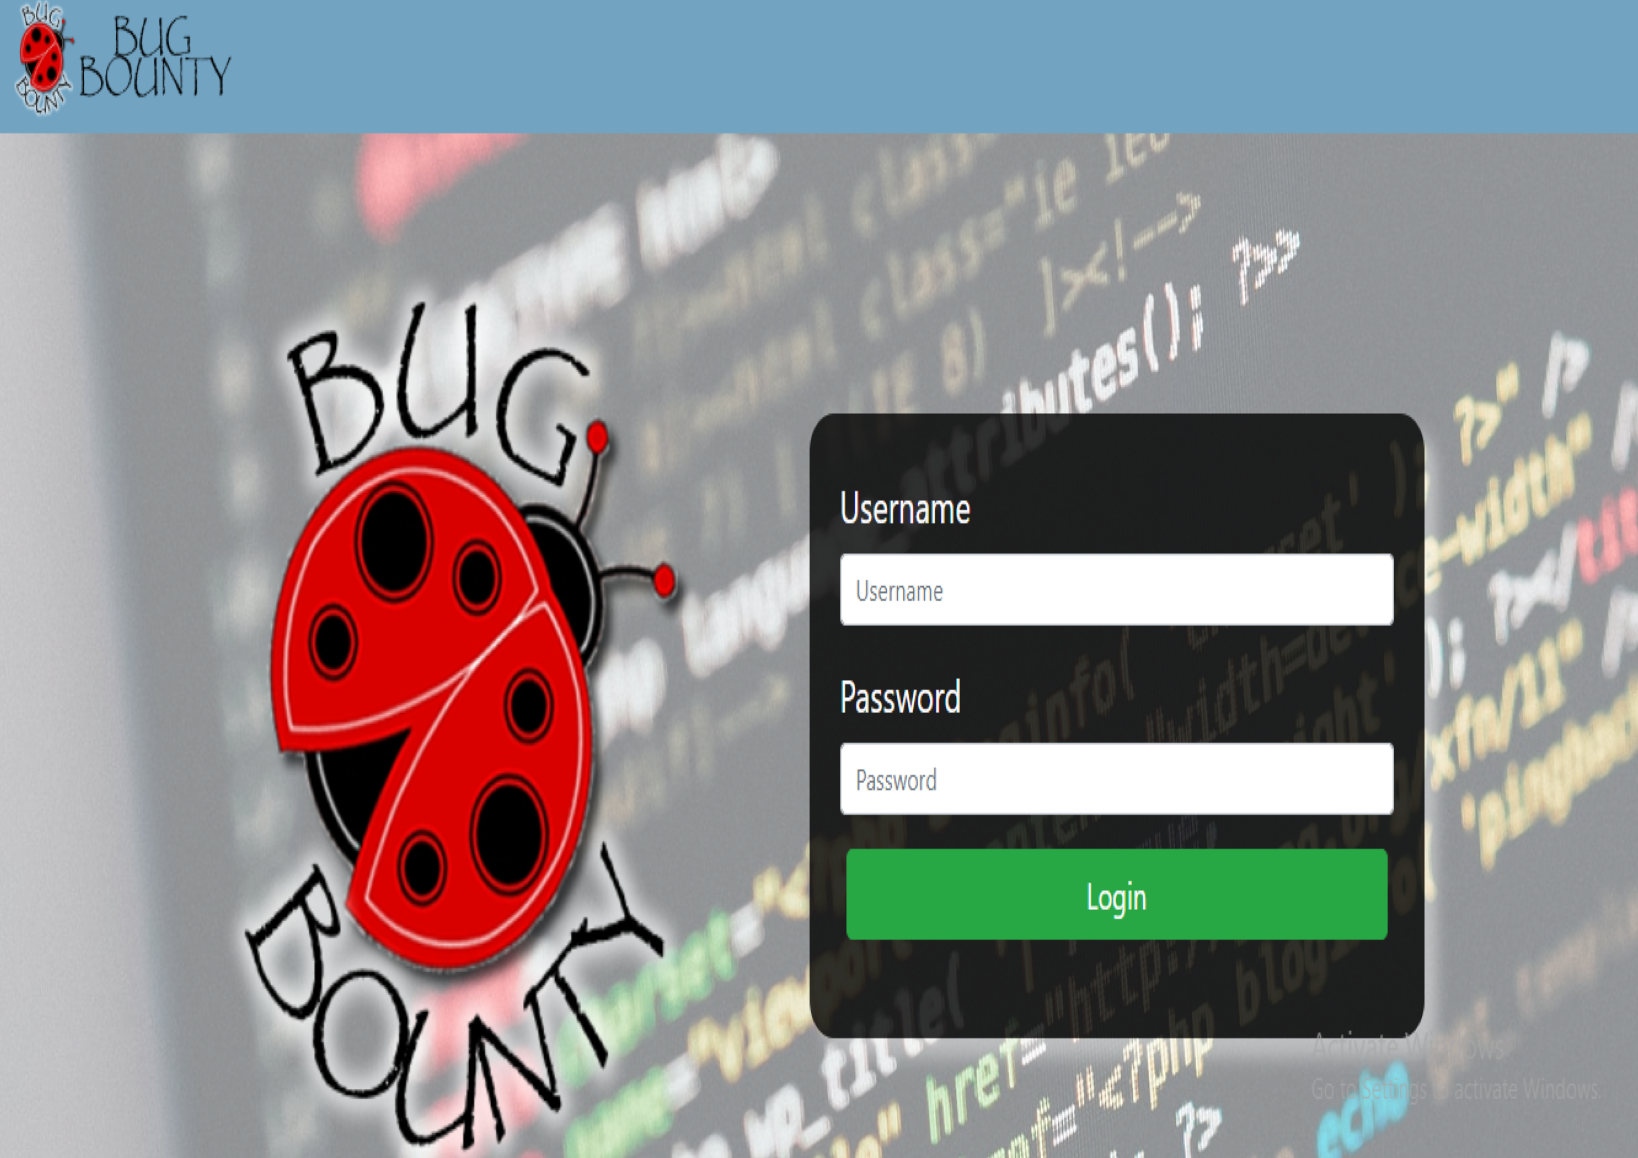
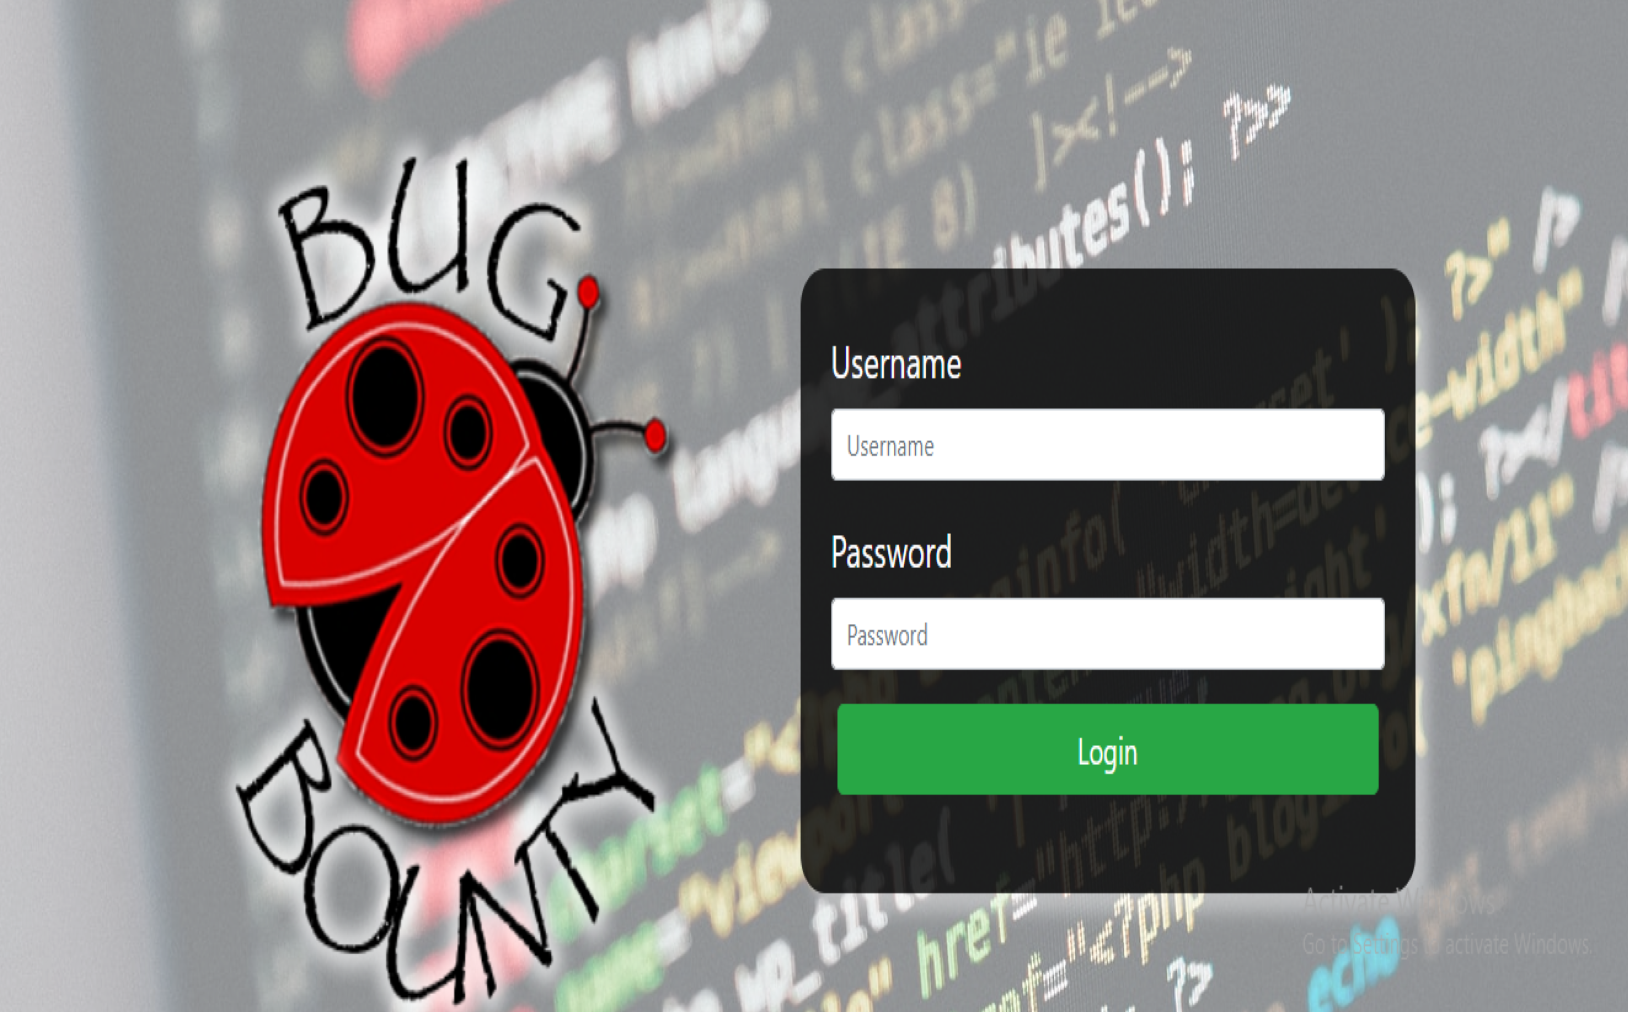
small changes to UI

diff --git a/index.html b/index.html
@@ -44,7 +44,7 @@
       <section id="one" class="wrapper style2 spotlights">
         <section>
           <a href="#" class="image"
-            ><img src="images/bugbounty.png" alt="" data-position="center center"
+            ><img src="images/bugbounty.png" alt="" data-position="20% 70%"
           /></a>
           <div class="content">
             <div class="inner">
@@ -106,7 +106,7 @@
         </section>
         <section>
           <a href="#" class="image"
-            ><img src="images/surveybay.png" alt="" data-position="top center"
+            ><img src="images/surveybay.png" alt="" data-position="40% 90%"
           /></a>
           <div class="content">
             <div class="inner">
